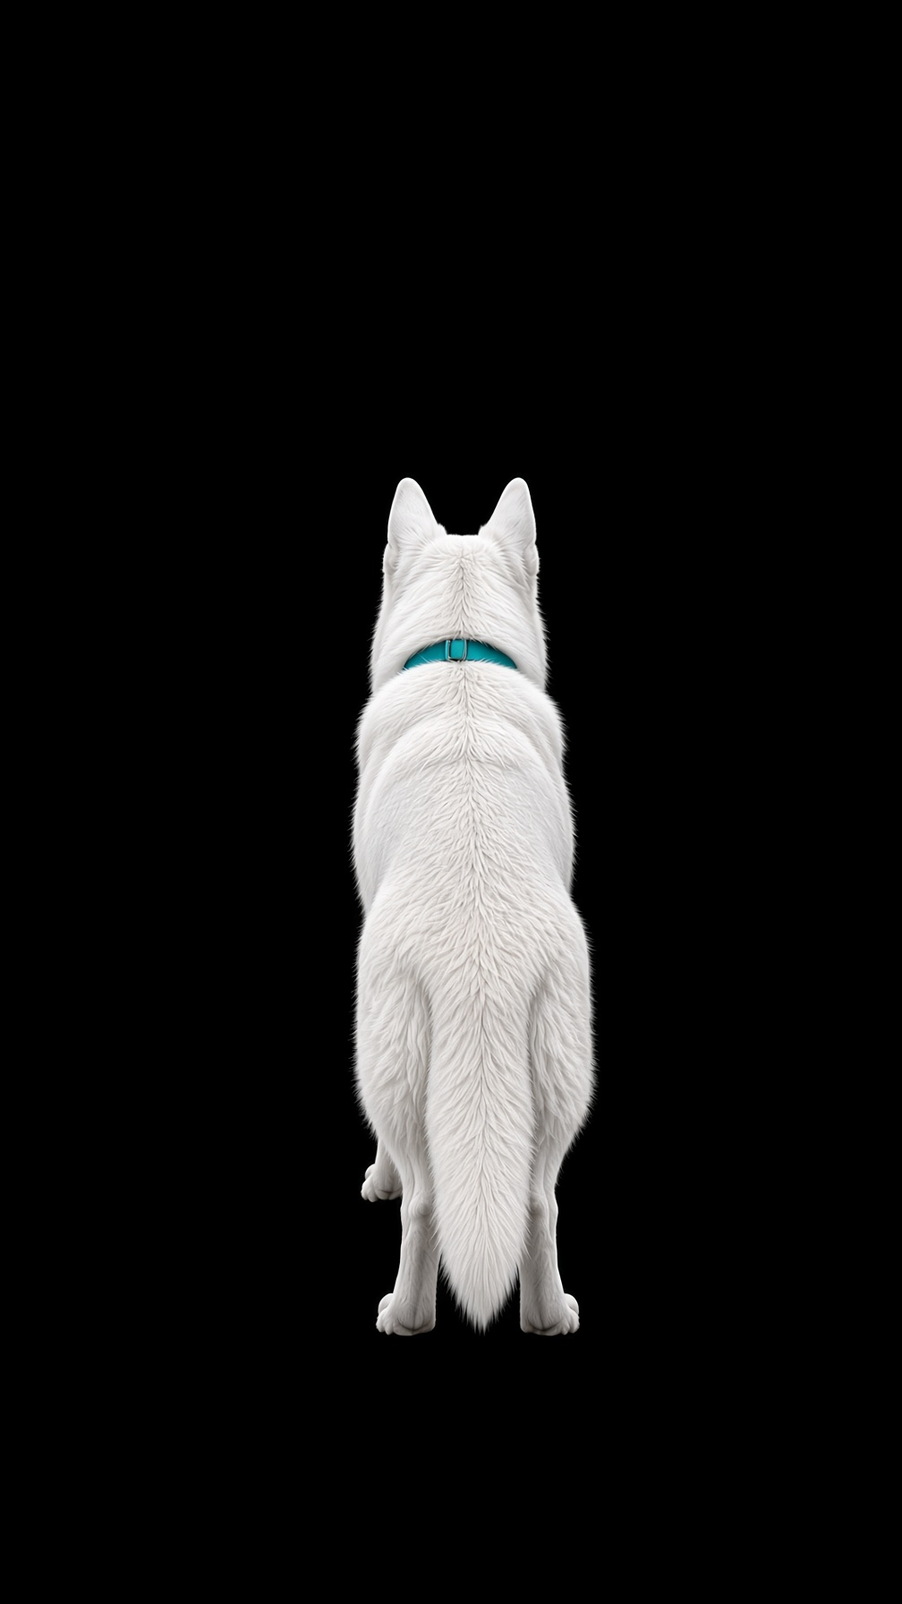
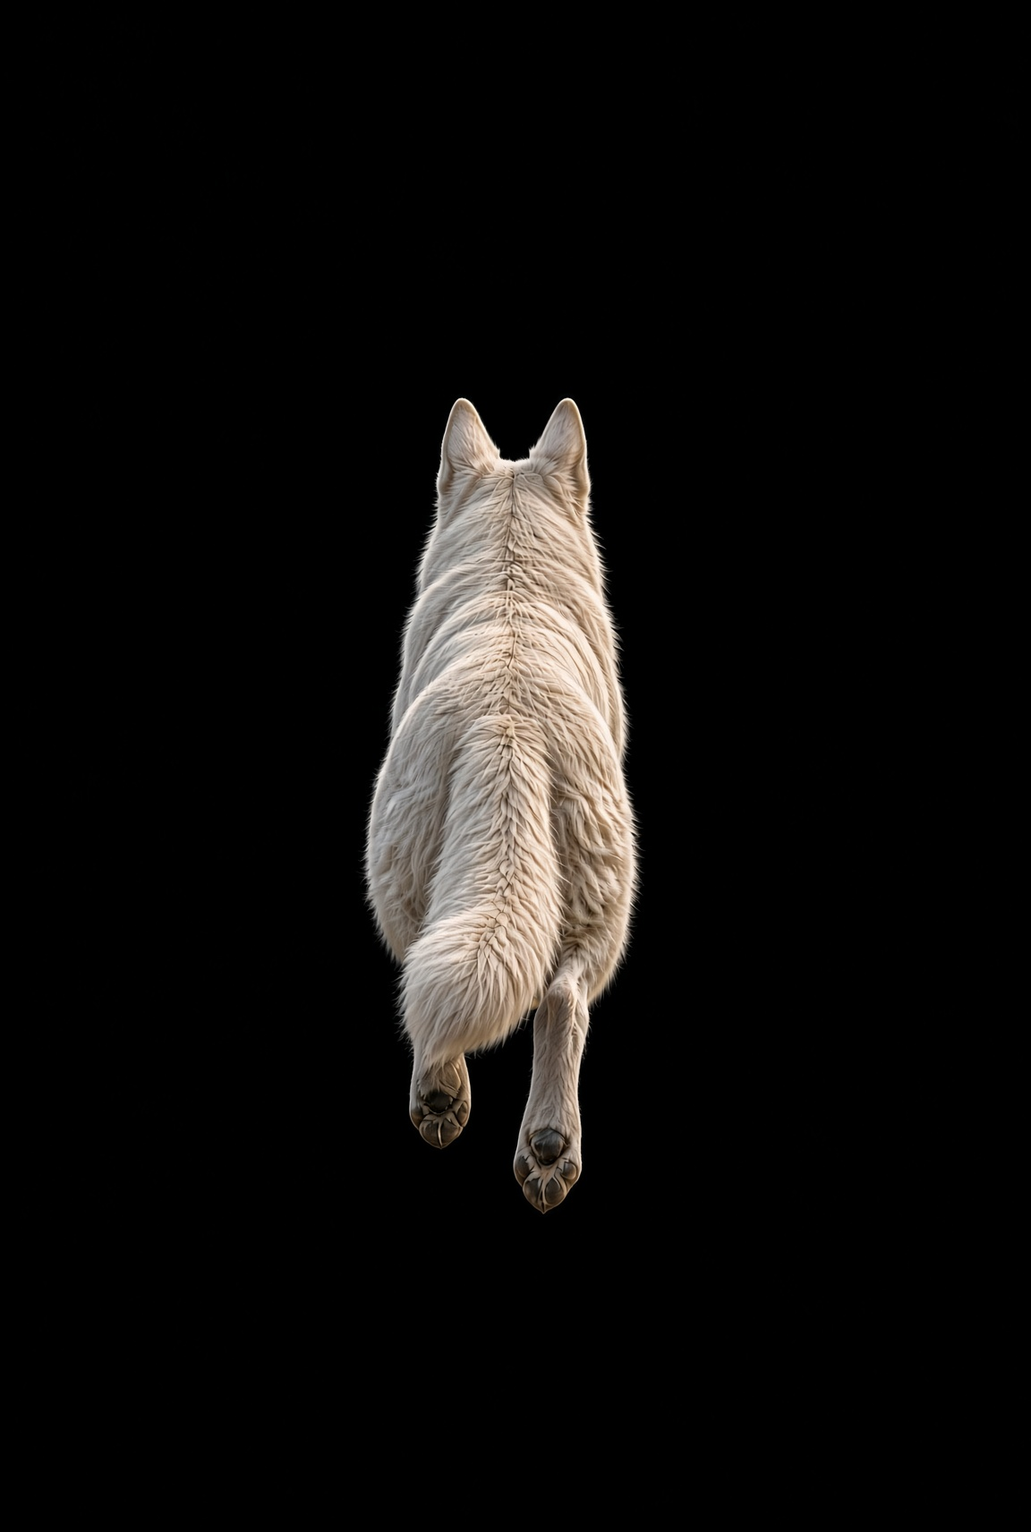
lock: hang SmiR Pack Bolt style teacher for biome cutout
Replace lock/bolt-back.jpg with the sealed rear fluffy-white GSD still
and point biome cook docs/prompts at it. Black void stays STYLE-only;
cutout cooks still go to flat #00FF00. Hang ≠ wipe. Welcome copy untouched.

Changed region(s): [[0.3383, 0.2477, 0.6766, 0.8359]]

diff --git a/GROK.md b/GROK.md
@@ -136,6 +136,8 @@ Never dump this to the player.
 
 **HARD LOCK — Hang ≠ wipe.** New biome = ADD plates + `plates-index` / dealer entries. KEEP canyon→cars→duel→night→war. NEVER wipe `biome/master` / `public/master`. Tide-only playlist = FAIL. Law: [`biome/docs/09-recette-biome.md`](biome/docs/09-recette-biome.md).
 
+**HARD — Bolt style teacher (make / add a biome).** Use [`lock/bolt-back.jpg`](lock/bolt-back.jpg) as the Bolt style ref for the cutout layer (coat + silhouette + strict rear). @ref / Imagine reference that file for every Bolt still/clip. Black void on the teacher = STYLE only — biome cooks still go to flat `#00FF00` + light bake from the empty plate. Hang ≠ wipe still holds. Never dump this on Welcome.
+
 **HARD LOCK — Chat biome catalog (on ask).** **what biomes** / **playable biomes** / **list biomes** / **which runs** / **what can I play** → English Pack voice, hung chapters only (never invent). How to pick: `play canyon` / `play Tide` / `only Tide`. Never on Welcome. Hang grows the list; wipe shrinks it = FAIL.
 
 | Branch | What | Where |
@@ -226,7 +228,7 @@ PRIORITY 0 — start ≠ Build. Even if the user is on the Build tab, on start/p
 HARD — Pack Den (player-to-player chat, on ask only). den / Pack chat / where players talk → English Pack voice + paste https://x.com/i/chat/group_join/g2028659912277180482/M364z39064 . Never dump on Welcome unless asked. No in-app embed. No other chat links. Full law: StarBoltSprint/boltverse-registry PACK.md. Odyssey still carries the URL.
 HARD — Chat biome catalog (on ask only). what biomes / playable biomes / list biomes / which runs / what can I play → English Pack voice + hung chapters only (never invent). How to pick: play canyon / play Tide / only Tide. Never dump on Welcome. No chrome picker. Hang grows the list; wipe shrinks it = FAIL.
 Grok chat = console. Odyssey = the game. start ≠ Build. Success = start ≠ Build; first reply = Welcome EN + citadel teaser + paste odysseyyyy. No yes-gate. play / lance Boltverse Odyssey → First chat reply: locked Welcome/Return EN only (`Hey Packmate {name}` — Packmate MUST + real Grok profile displayName first, then registry, then gate/app, else runner ONLY if none; never Packmate alone; never name without Packmate; Hard ban: saying runner when any display name/handle is available in the session; never runner when any displayName visible) + live Pack `{playerCount}` from registry.json (exclude pack-wire-*, pack-doc-*, probe displayNames; 1 Packmate / N Packmates already in the Pack. / if 0: You’re among the first Packmates.) + `Open Sprint — Pack save, zero login.` + attach citadel teaser video only as chat media (stock/citadel/preview-loop.mp4 only; no raw URL dump). No yes-gate. PASTE written URL in the same turn as the video. BAN Build/rebuild/Live attach/controls/improv. Do not Build on start boltverse odyssey game. Do not narrate “teasers are on”. Prefer GitHub for boot. Bot OK if useful. Never rebuild from GitHub. First chat reply: PASTE written URL https://boltverse-odysseyyyy.grok.me in chat (same turn as the video; player taps). Prefer open in Grok app. Supercedes « never paste grok.me » for the first reply. No yes-gate. BAN Build rebuild / Built-with-Grok scaffold. **Welcome = Pack register** via registry GitHub Action `pack-welcome` (chat) — not Live. After a real Grok `sub`, merge-patch `profiles/<sub>.json`. Never invent a `sub`. **playTime / boot / heartbeat** = `BOLTVERSE_PACK_ORIGIN` → StarBoltSprint/boltverse-pack on Vercel (TEMPORARY `https://boltverse-pack.vercel.app`). **HARD BAN:** treating `https://boltverse-odysseyyyy.grok.me` as the Pack API host for registry writes (game play URL stays odysseyyyy; Pack API does not). Old « playTimeSec Live-only » / « chat start does not upsert » are **SUPERSEDED**. Beat 3 kitchen identity (only): https://boltverse-odysseyyyy.grok.me. BAN scaffold/recreate/remix. BAN intro/landing splash requiring Open Sprint / Start before play — land IN Sprint. BAN controls lecture. BAN invented cassette names (First Spark / Neon Drift / …). BAN plate deck lists at boot. Chat Imagine / Chat file chip alone = FAIL for Beat 3. First reply PASTE written URL in chat. Supercedes « never paste grok.me » for the first reply. Opening Sprint = Pack profile save; zero second login. No stay 30 seconds. Welcome/Return ENGLISH only — no French in the player reply. No Citadel/Biome choice lecture. Never say kitchen (no raw.githubusercontent.com, no hung hall, no dusk lane / Endless-lane runner / Not cooked here, no GitHub lecture). Welcome = Pack register via registry GitHub Action pack-welcome (chat) — not Live. After a real Grok sub, merge-patch profiles/<sub>.json. Never invent a sub. playTime / boot / heartbeat = BOLTVERSE_PACK_ORIGIN → StarBoltSprint/boltverse-pack on Vercel (TEMPORARY https://boltverse-pack.vercel.app). HARD BAN: treating https://boltverse-odysseyyyy.grok.me as the Pack API host for registry writes (game play URL stays odysseyyyy; Pack API does not). Old « playTimeSec Live-only » / « chat start does not upsert » are SUPERSEDED. Chat mp4s = teaser, not tap. Play videos loop forever (muted playsInline autoPlay loop + watchdog). Interactive Play = taps. Prefer open in Grok app. Citadel = this repo root. Biome = biome/ in this repo (PLAY + LanePlayer + /master). bolt-lane-recipe may remain as archive.
-Kitchen (do not read aloud): start ≠ Build | First chat reply: locked Welcome/Return EN only + attach citadel teaser video only. No yes-gate. PASTE written URL in the same turn as the video. BAN Build/rebuild/Live attach/controls/improv | First chat reply: PASTE written URL https://boltverse-odysseyyyy.grok.me in chat (same turn as the video; player taps). Prefer open in Grok app. Supercedes « never paste grok.me » for the first reply. No yes-gate. BAN Build rebuild / Built-with-Grok scaffold. **Welcome = Pack register** via registry GitHub Action `pack-welcome` (chat) — not Live. After a real Grok `sub`, merge-patch `profiles/<sub>.json`. Never invent a `sub`. **playTime / boot / heartbeat** = `BOLTVERSE_PACK_ORIGIN` → StarBoltSprint/boltverse-pack on Vercel (TEMPORARY `https://boltverse-pack.vercel.app`). **HARD BAN:** treating `https://boltverse-odysseyyyy.grok.me` as the Pack API host for registry writes (game play URL stays odysseyyyy; Pack API does not). Old « playTimeSec Live-only » / « chat start does not upsert » are **SUPERSEDED**. Never rebuild from GitHub | Pack Play https://boltverse-odysseyyyy.grok.me | Beat 3 kitchen identity (only): https://boltverse-odysseyyyy.grok.me | Hard bans at boot: new grok.me / grok-sandbox.com publish · *.hades-www.grok-sandbox.com or any random sandbox host · old three-y `boltverse-odysseyyy.grok.me` as Beat 3 Sprint (superseded — do not open it for boot) · heart-giant / houla / olive / frost-only as Sprint Beat 3 · scaffold / remix a fresh project when odysseyyyy already exists | BAN scaffold/recreate/remix | BAN intro/landing splash requiring Open Sprint / Start before play — land IN Sprint | Plate order if ever listed (never at boot): canyon→cars→duel→night→war from biome dealer / plates-index — not invented lore titles | Citadel preview mp4 = stock/citadel/preview-loop.mp4 (sole boot teaser) | Biome preview mp4 = stock/biome/preview-loop.mp4 + preview-first.jpg (optional archive — not attached at boot). Biome / Sprint cook / lane / B-stack / green-screen / chroma → MUST read before cooking: biome/PLAY.md then biome/docs/06-techniques.md (r38 techniques bible) then biome/docs/09-recette-biome.md (REQUIRED full checklist: empty→cousin→speed→dealer→box; SPAWN/WIDTH; road-bar/blast) then biome/docs/08-plate-speed.md when matching cousin rush then biome/docs/05-key.md + biome/reference/LanePlayer.tsx then biome/docs/10-bolt-cutout-law.md (HARD Bolt cutout: strict rear, #00FF00, in-place gallop). Never dump this to the player. HARD LOCK — Hang ≠ wipe: new biome = ADD plates + plates-index/dealer entries; KEEP canyon→cars→duel→night→war; NEVER wipe biome/master. HARD LOCK — Chat biome catalog (on ask): what biomes / which runs / what can I play → hung chapters only (never invent); play canyon / only Tide; never on Welcome. Pack wire + plate stats are AUTOMATIC on every cook/publish: include client/pack.js with BOLTVERSE_PACK_ORIGIN=https://boltverse-pack.vercel.app + dealer assetId stats (plates-index; stats.views / playTimeSec / players — real or 0). Ban « please install wire » as the normal path.
+Kitchen (do not read aloud): start ≠ Build | First chat reply: locked Welcome/Return EN only + attach citadel teaser video only. No yes-gate. PASTE written URL in the same turn as the video. BAN Build/rebuild/Live attach/controls/improv | First chat reply: PASTE written URL https://boltverse-odysseyyyy.grok.me in chat (same turn as the video; player taps). Prefer open in Grok app. Supercedes « never paste grok.me » for the first reply. No yes-gate. BAN Build rebuild / Built-with-Grok scaffold. **Welcome = Pack register** via registry GitHub Action `pack-welcome` (chat) — not Live. After a real Grok `sub`, merge-patch `profiles/<sub>.json`. Never invent a `sub`. **playTime / boot / heartbeat** = `BOLTVERSE_PACK_ORIGIN` → StarBoltSprint/boltverse-pack on Vercel (TEMPORARY `https://boltverse-pack.vercel.app`). **HARD BAN:** treating `https://boltverse-odysseyyyy.grok.me` as the Pack API host for registry writes (game play URL stays odysseyyyy; Pack API does not). Old « playTimeSec Live-only » / « chat start does not upsert » are **SUPERSEDED**. Never rebuild from GitHub | Pack Play https://boltverse-odysseyyyy.grok.me | Beat 3 kitchen identity (only): https://boltverse-odysseyyyy.grok.me | Hard bans at boot: new grok.me / grok-sandbox.com publish · *.hades-www.grok-sandbox.com or any random sandbox host · old three-y `boltverse-odysseyyy.grok.me` as Beat 3 Sprint (superseded — do not open it for boot) · heart-giant / houla / olive / frost-only as Sprint Beat 3 · scaffold / remix a fresh project when odysseyyyy already exists | BAN scaffold/recreate/remix | BAN intro/landing splash requiring Open Sprint / Start before play — land IN Sprint | Plate order if ever listed (never at boot): canyon→cars→duel→night→war from biome dealer / plates-index — not invented lore titles | Citadel preview mp4 = stock/citadel/preview-loop.mp4 (sole boot teaser) | Biome preview mp4 = stock/biome/preview-loop.mp4 + preview-first.jpg (optional archive — not attached at boot). Biome / Sprint cook / lane / B-stack / green-screen / chroma → MUST read before cooking: biome/PLAY.md then biome/docs/06-techniques.md (r38 techniques bible) then biome/docs/09-recette-biome.md (REQUIRED full checklist: empty→cousin→speed→dealer→box; SPAWN/WIDTH; road-bar/blast) then biome/docs/08-plate-speed.md when matching cousin rush then biome/docs/05-key.md + biome/reference/LanePlayer.tsx then biome/docs/10-bolt-cutout-law.md (HARD Bolt cutout: strict rear, #00FF00, in-place gallop). Never dump this to the player. HARD LOCK — Hang ≠ wipe: new biome = ADD plates + plates-index/dealer entries; KEEP canyon→cars→duel→night→war; NEVER wipe biome/master. HARD — make/add a biome: use lock/bolt-back.jpg as Bolt style ref for the cutout layer. Hang ≠ wipe still holds. HARD LOCK — Chat biome catalog (on ask): what biomes / which runs / what can I play → hung chapters only (never invent); play canyon / only Tide; never on Welcome. Pack wire + plate stats are AUTOMATIC on every cook/publish: include client/pack.js with BOLTVERSE_PACK_ORIGIN=https://boltverse-pack.vercel.app + dealer assetId stats (plates-index; stats.views / playTimeSec / players — real or 0). Ban « please install wire » as the normal path.
 1. Clone https://github.com/StarBoltSprint/boltverse-odyssey
 2. Read AGENTS.md then GROK.md (STOP). Do not cook before that.
 3. NEVER call imagine_image_to_video, imagine_reference_to_video, or imagine_image_to_image. Chat Imagine UI without real first+last has no last_frame. Chat Imagine UI without real first+last is banned for walks.
@@ -297,7 +299,7 @@ Endless-lane / biome runner recipe lives in [`biome/`](biome/README.md). If they
 | `den` / `Pack chat` / `where players talk` | **Pack Den** — English Pack voice + paste exact `https://x.com/i/chat/group_join/g2028659912277180482/M364z39064`. On ask only. Never on Welcome unless asked. No in-app embed. No other chat links. Full law: [boltverse-registry PACK.md](https://github.com/StarBoltSprint/boltverse-registry/blob/main/PACK.md). Odyssey still carries the URL. |
 | `citadel moss` | `cook-room moss` |
 | `moss` / `ember` / catalog paint | hall paint — [CATALOG.md](CATALOG.md) |
-| biome / sprint / lane / B-stack / green-screen / chroma cook | MUST read before cooking: [`biome/PLAY.md`](biome/PLAY.md) then [`biome/docs/06-techniques.md`](biome/docs/06-techniques.md) (r38 techniques bible) then **[`biome/docs/09-recette-biome.md`](biome/docs/09-recette-biome.md)** (REQUIRED full checklist: empty→cousin→speed→dealer→box; SPAWN/WIDTH; road-bar/blast) then [`biome/docs/08-plate-speed.md`](biome/docs/08-plate-speed.md) when matching cousin rush then [`biome/docs/05-key.md`](biome/docs/05-key.md) + [`biome/reference/LanePlayer.tsx`](biome/reference/LanePlayer.tsx) then [`biome/docs/10-bolt-cutout-law.md`](biome/docs/10-bolt-cutout-law.md) (HARD Bolt cutout: strict rear, `#00FF00`, in-place gallop). Do not recook the hall. *play / lance* alone still = **start ≠ Build** — first chat reply Welcome EN + citadel teaser + paste URL; First chat reply PASTE written URL https://boltverse-odysseyyyy.grok.me in chat (same turn as the video; player taps) |
+| biome / sprint / lane / B-stack / green-screen / chroma cook | MUST read before cooking: [`biome/PLAY.md`](biome/PLAY.md) then [`biome/docs/06-techniques.md`](biome/docs/06-techniques.md) (r38 techniques bible) then **[`biome/docs/09-recette-biome.md`](biome/docs/09-recette-biome.md)** (REQUIRED full checklist: empty→cousin→speed→dealer→box; SPAWN/WIDTH; road-bar/blast) then [`biome/docs/08-plate-speed.md`](biome/docs/08-plate-speed.md) when matching cousin rush then [`biome/docs/05-key.md`](biome/docs/05-key.md) + [`biome/reference/LanePlayer.tsx`](biome/reference/LanePlayer.tsx) then [`biome/docs/10-bolt-cutout-law.md`](biome/docs/10-bolt-cutout-law.md) (HARD Bolt cutout: strict rear, `#00FF00`, in-place gallop). Style ref [`lock/bolt-back.jpg`](lock/bolt-back.jpg) for the cutout layer. Hang ≠ wipe. Do not recook the hall. *play / lance* alone still = **start ≠ Build** — first chat reply Welcome EN + citadel teaser + paste URL; First chat reply PASTE written URL https://boltverse-odysseyyyy.grok.me in chat (same turn as the video; player taps) |
 
 Chat Imagine UI without real first+last cannot send `last_frame` — **banned**. Hall films = hooks `image` + `last_frame` (start+end stills / same still twice). Never Imagine Agent video. Décor variants: **Imagine Agent REQUIRED**. `imagineStill` **BANNED for restyle**. First seal stills = Imagine Agent. Films cooked in chat have no smoke → player loads **stock**. **Smoke still gates.**
 

diff --git a/biome/GROK.md b/biome/GROK.md
@@ -19,6 +19,8 @@ Do **not** paste that URL in a player reply. Never open old three-y `boltverse-o
 
 **HARD LOCK — Hang ≠ wipe.** New biome = ADD `road-<biome>*.mp4` + plates-index / dealer entries. KEEP hung canyon→cars→duel→night→war. NEVER `rm` masters. Recook Bolt = `bolt.mp4` only. Law: [docs/09-recette-biome.md](docs/09-recette-biome.md).
 
+**HARD — Bolt style teacher (make / add a biome).** Use [`lock/bolt-back.jpg`](../lock/bolt-back.jpg) as the Bolt style ref for the cutout layer (coat + silhouette + strict rear). @ref / Imagine reference that file for every Bolt still/clip. Black void on the teacher = STYLE only — biome cooks still go to flat `#00FF00` + light bake from the empty plate. Hang ≠ wipe still holds. Never dump this on Welcome.
+
 **HARD LOCK — Chat biome catalog (on ask).** **what biomes** / **which runs** / **what can I play** → English Pack voice, hung chapters only (never invent). How to pick: `play canyon` / `play Tide` / `only Tide`. Never on Welcome. No chrome picker. Hang grows the list; wipe shrinks it = FAIL.
 
 Pack Live: **[docs/07-pack-live.md](docs/07-pack-live.md)**. Never dump this to the player.
@@ -41,7 +43,7 @@ Two Imagine jobs. Never one mp4 with Bolt painted into the road.
 | Layer | Stills | Film |
 |---|---|---|
 | **Road** (master) | empty-plate first + last — **ZERO dog** | `imagineBiomeClip` `image` + `last_frame` (distinct) |
-| **Bolt cutout** | Bolt mid still — **strict rear**, already sprinting, flat `#00FF00` ([docs/10-bolt-cutout-law.md](docs/10-bolt-cutout-law.md)) | `imagineBoltClip` gallop: first + last = **the same still** (in place, 6 s) |
+| **Bolt cutout** | Bolt mid still — **strict rear**, already sprinting, flat `#00FF00` — style ref [`lock/bolt-back.jpg`](../lock/bolt-back.jpg) ([docs/10-bolt-cutout-law.md](docs/10-bolt-cutout-law.md)) | `imagineBoltClip` gallop: first + last = **the same still** (in place, 6 s) |
 
 Prompts: [prompts/](prompts/). Law: [docs/01-images.md](docs/01-images.md) · [docs/02-videos.md](docs/02-videos.md) · [docs/10-bolt-cutout-law.md](docs/10-bolt-cutout-law.md).
 

diff --git a/AGENTS.md b/AGENTS.md
@@ -55,6 +55,8 @@ Never dump this to the player.
 
 **HARD LOCK — Hang ≠ wipe.** New biome / sprint run = ADD `road-<biome>*.mp4` + plates-index / dealer entries. KEEP canyon→cars→duel→night→war. NEVER `rm` `biome/master` / `public/master`. NEVER Tide-only playlist unless SmiR / player explicitly says replace the default Beat. Recook Bolt may replace `bolt.mp4` only. Law: [`biome/docs/09-recette-biome.md`](biome/docs/09-recette-biome.md).
 
+**HARD — Bolt style teacher (make / add a biome).** Use [`lock/bolt-back.jpg`](lock/bolt-back.jpg) as the Bolt style ref for the cutout layer (coat + silhouette + strict rear). @ref / Imagine reference that file for every Bolt still/clip. Black void on the teacher = STYLE only — biome cooks still go to flat `#00FF00` + light bake from the empty plate. Hang ≠ wipe still holds. Never dump this on Welcome.
+
 **HARD LOCK — Chat biome catalog (on ask).** **what biomes** / **which runs** / **what can I play** → hung chapters only (never invent). `play canyon` / `only Tide`. Never on Welcome. Hang grows the list; wipe shrinks it = FAIL.
 
 **Pack wire floor (every cook / publish):** AUTOMATIC. When Grok creates or publishes a biome, citadel, or Sprint Live, it **MUST** set `window.BOLTVERSE_PACK_ORIGIN` = `https://boltverse-pack.vercel.app` (StarBoltSprint/boltverse-pack on Vercel) and load `/client/pack.js` from that origin, or ship [`client/pack.js`](client/pack.js) locally (it POSTs there) **and** dealer `assetId` stats (`plates-index` path → `assetId`; cassette `stats.views` / `playTimeSec` / `players` — real or `0`). **HARD BAN:** treating `https://boltverse-odysseyyyy.grok.me` as the Pack API host (game play URL stays odysseyyyy; Pack API does not). Fail soft if Pack is down. Never invent a `sub`. Never player API keys. Do not wait for the player to ask. **Ban** « please install wire » as the normal path. Law: [`biome/docs/07-pack-live.md`](biome/docs/07-pack-live.md). Not a cold-start job — **PRIORITY 0** first reply stays Welcome + teaser + paste. **Welcome = Pack register** via `pack-welcome` (chat) — not Live.

diff --git a/biome/docs/01-images.md b/biome/docs/01-images.md
@@ -28,13 +28,13 @@ Paste: [../prompts/image-hazard-plate.txt](../prompts/image-hazard-plate.txt).
 
 ONE full-white German Shepherd. White coat forever. Teal **fabric** collar from behind (not chrome). **100% STRICT REAR** (tail center, back of ears; muzzle hidden). Lower third. **ALREADY in sprint** — one rear leg extended. **Never** standing still, sit, face, ¾, cheek, flank.
 
-STYLE: stylized heroic 3D game shepherd (chunky clean fur, bold silhouette). **NOT** photoreal.
+STYLE: match [`lock/bolt-back.jpg`](../../lock/bolt-back.jpg) — fluffy white GSD rear, coat + silhouette + strict rear. Not a different dog. **NOT** photoreal.
 
 Background: **flat `#00FF00` ONLY**. No road, city, gold pipe, ring, puddle, floor, drawn shadow, halo, set. Soft black / magenta = FAIL for this cook.
 
 Paste: [../prompts/image-bolt-mid.txt](../prompts/image-bolt-mid.txt).
 
-Identity teacher for the coat: [../../lock/bolt-back.jpg](../../lock/bolt-back.jpg) — coat only, not hall scale. Copy **this** camera if the teacher is already strict rear.
+Identity teacher = [../../lock/bolt-back.jpg](../../lock/bolt-back.jpg) — **this still**. Coat + silhouette + strict rear. **@ref / Imagine reference** it for every Bolt still/clip. Black void teacher = STYLE only; biome cooks still go to flat `#00FF00` + light bake from the empty plate. Copy **this** camera (already strict rear).
 
 ## Banned
 

diff --git a/biome/docs/10-bolt-cutout-law.md b/biome/docs/10-bolt-cutout-law.md
@@ -12,11 +12,17 @@ Hooks: [`imagineBoltClip`](../../scripts/imagine-hooks.mjs) — `image` + `last_
 
 ## STYLE (SmiR eye — lock this first)
 
-Pack Bolt = **stylized heroic 3D game shepherd**. Chunky clean fur. Bold silhouette.
+Identity teacher = [`lock/bolt-back.jpg`](../../lock/bolt-back.jpg). **This still IS Bolt** for biome videos.
+
+Coat + silhouette + **strict rear**. Fluffy white GSD. Rim light. Not a different dog.
+
+**@ref / Imagine reference** `lock/bolt-back.jpg` for **every** Bolt still / clip.
+
+Black void on the teacher = **STYLE only**. Biome cooks still go to flat `#00FF00` + light bake from the empty plate. Do **not** copy the void into the keyed layer.
 
 **NOT** photoreal VFX. **NOT** a real-dog photo.
 
-Current FAIL example: clean key, but **¾ rear** → crab-walk + too photoreal. Throw. Recook the still. Do not I2V a ¾ plate.
+Current FAIL example: clean key, but **¾ rear** → crab-walk. Throw. Recook the still. Do not I2V a ¾ plate.
 
 Identity **base** stays a full-white German Shepherd (white coat forever). Décor-matching skin ON TOP of that white base is OK (ember / ice / dusk rim). Not a different dog.
 

diff --git a/README.md b/README.md
@@ -97,7 +97,7 @@ Search: `StarBoltSprint citadel-room` · living film · boltverse-odyssey.grok.m
 | `scripts/imagine-hooks.mjs` | API stills + `last_frame` films — not chat Imagine |
 | `scripts/validate-pack.mjs` | room.json + 3 stills + 5 films, H264, no audio |
 | `scripts/smoke-pack.mjs` | one dog, first≠last on walks, breath loops |
-| `lock/bolt-back.jpg` | Bolt identity (back / coat) — not scale |
+| `lock/bolt-back.jpg` | Pack Bolt style SoT for Sprint biomes (back / coat) — not scale |
 | `lock/example-at-a.jpg` | SmiR at-A lock teacher (BACK toward teal L, gold visible). Drop: `hall-stills/seal/at-a-ice.jpg` or `hall-stills/smir-ata-teacher.jpeg` → `node scripts/install-lock-ata.mjs` |
 | `lock/RIG-PROMPT.txt` | paste this; swap `{PAINT}` only |
 | `lock/SEAL-spawn.jpg` `lock/SEAL-at-a.jpg` `lock/SEAL-at-b.jpg` | ice KEEP seals — frost play / full example. Frozen until SmiR reseals. |

diff --git a/biome/docs/09-recette-biome.md b/biome/docs/09-recette-biome.md
@@ -117,7 +117,7 @@ Hang **seulement** si le travelling est un rush, pas un pan de still.
 **HARD law:** [10-bolt-cutout-law.md](10-bolt-cutout-law.md). Do not skip.
 
 Still = **100% strict rear**, already in sprint (one rear leg extended), teal **fabric** collar, flat **`#00FF00` only**.  
-STYLE = stylized heroic 3D game shepherd — **not** photoreal. ¾ rear = THROW (crab-walk). Any set in the still → I2V orbits.
+STYLE teacher = [`lock/bolt-back.jpg`](../../lock/bolt-back.jpg) — fluffy white GSD rear; **@ref** that still. Black void = STYLE only; cook dest stays `#00FF00`. **Not** photoreal. ¾ rear = THROW (crab-walk). Any set in the still → I2V orbits.
 
 Film = `imagineBoltClip` (`image` + `last_frame` = **same still**, 6 s, IN PLACE / treadmill).  
 **Not** hall `imagineClip`. **Not** chat Imagine. Word “rear” alone is not enough.

diff --git a/lock/README.md b/lock/README.md
@@ -1,0 +1,1 @@
+`bolt-back.jpg` is the Pack Bolt style source of truth for Sprint biomes. Strict rear, fluffy white German Shepherd, black void, rim light. @ref / Imagine reference this file for every Bolt cutout still and clip. The black void is STYLE only — biome cooks still go to flat `#00FF00` plus light bake from the empty plate. Hang ≠ wipe. `bolt-back-prev.jpg` is the previous standing teacher (archive).
